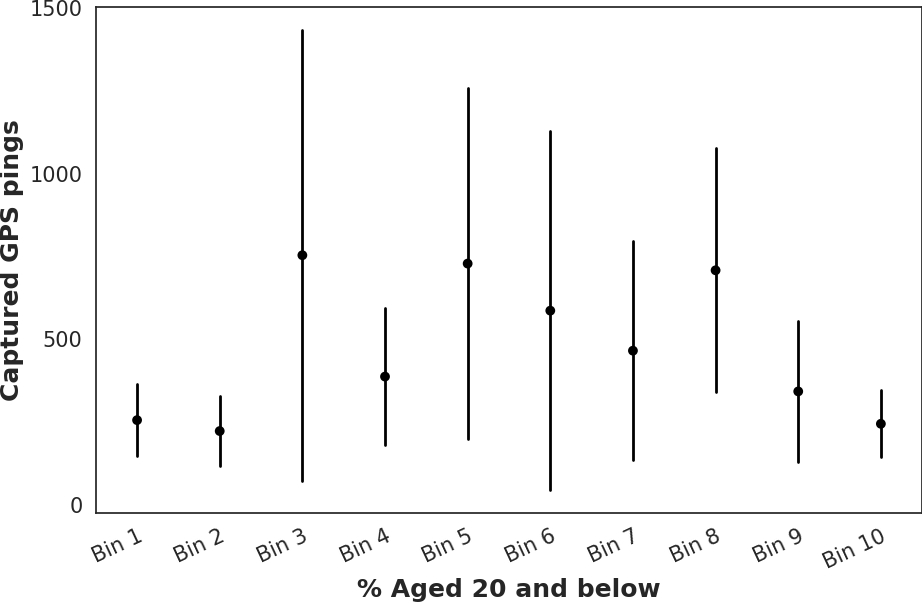
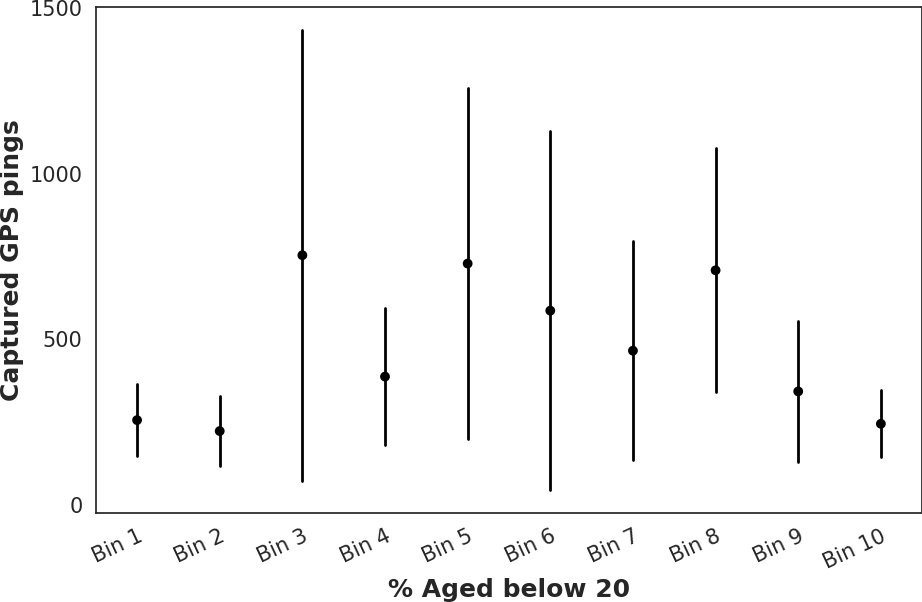
Fix age-group axis labels

Changed region(s): [[0.3948, 0.9568, 0.7289, 1.0]]

diff --git a/geo/logs/ping-variation.py b/geo/logs/ping-variation.py
@@ -767,7 +767,7 @@ TICKSIZE = 15
 ax.tick_params(axis="both", labelsize=TICKSIZE)
 
 LABSIZE = 18
-plt.xlabel("% Aged 20 and below", fontweight="bold", loc="center", size=LABSIZE)
+plt.xlabel("% Aged below 20", fontweight="bold", loc="center", size=LABSIZE)
 plt.ylabel("Captured GPS pings", fontweight="bold", loc="center", size=LABSIZE)
 plt.tight_layout()
 save_mpl_fig(os.path.join(SAVEPATH, "coefplot-dest-pings-age20"))
@@ -797,7 +797,7 @@ TICKSIZE = 15
 ax.tick_params(axis="both", labelsize=TICKSIZE)
 
 LABSIZE = 18
-plt.xlabel("% Aged 20 to 40", fontweight="bold", loc="center", size=LABSIZE)
+plt.xlabel("% Aged 20 to 39", fontweight="bold", loc="center", size=LABSIZE)
 plt.ylabel("Captured GPS pings", fontweight="bold", loc="center", size=LABSIZE)
 plt.tight_layout()
 save_mpl_fig(os.path.join(SAVEPATH, "coefplot-dest-pings-age20to40"))
